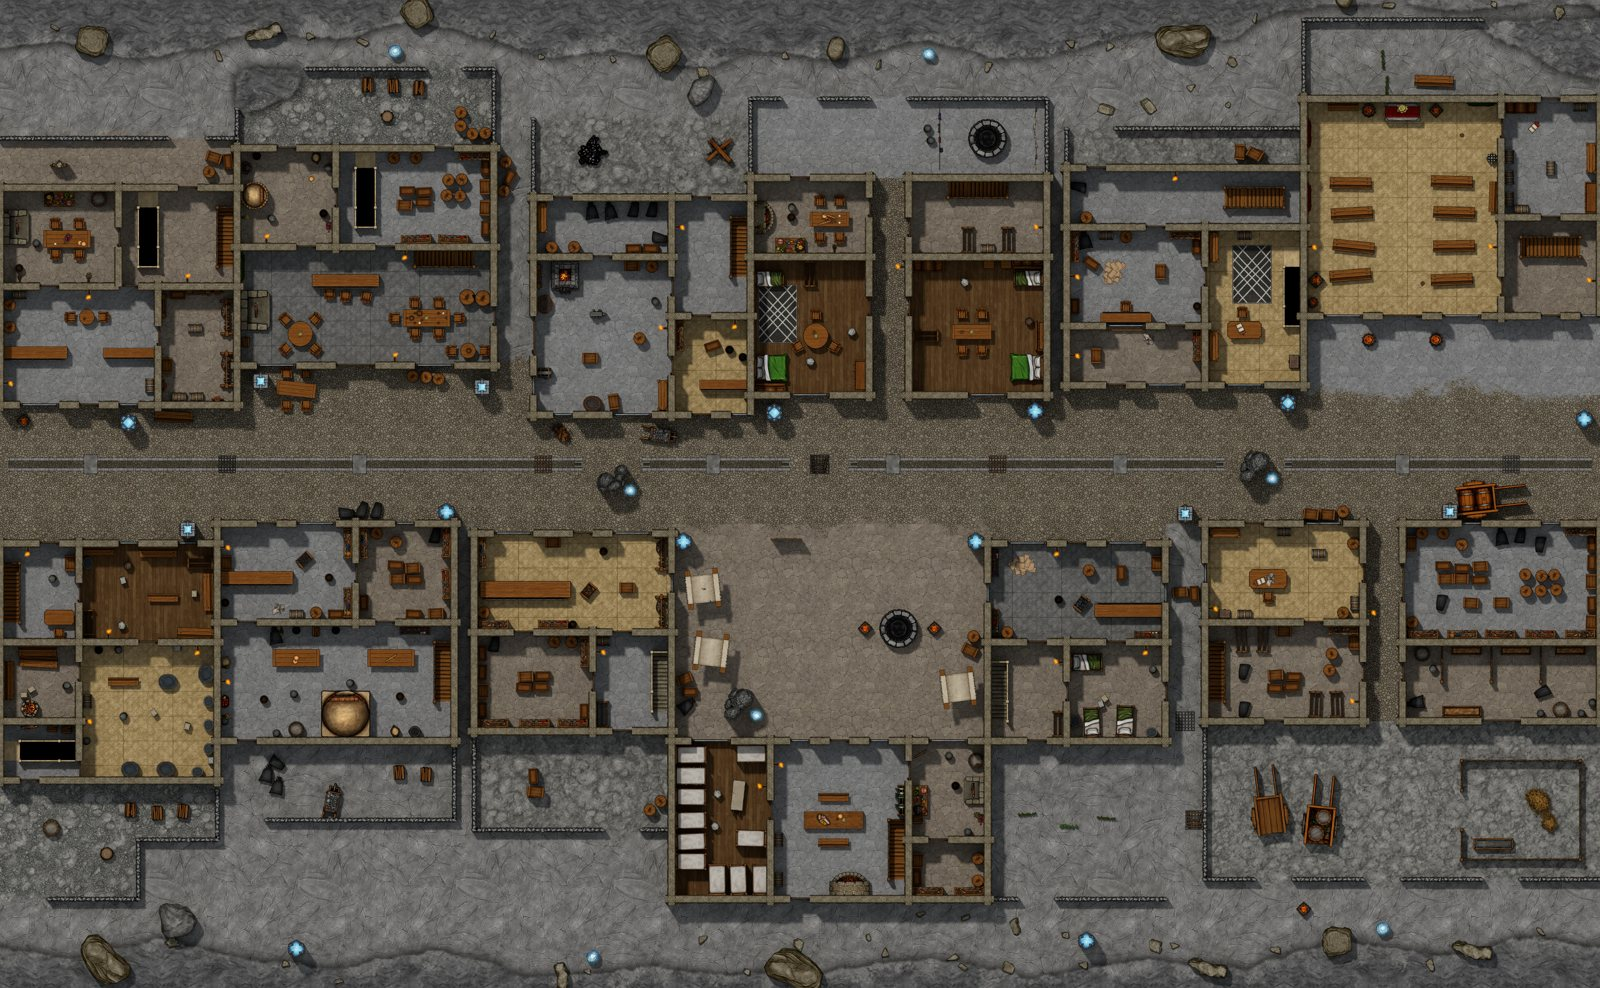
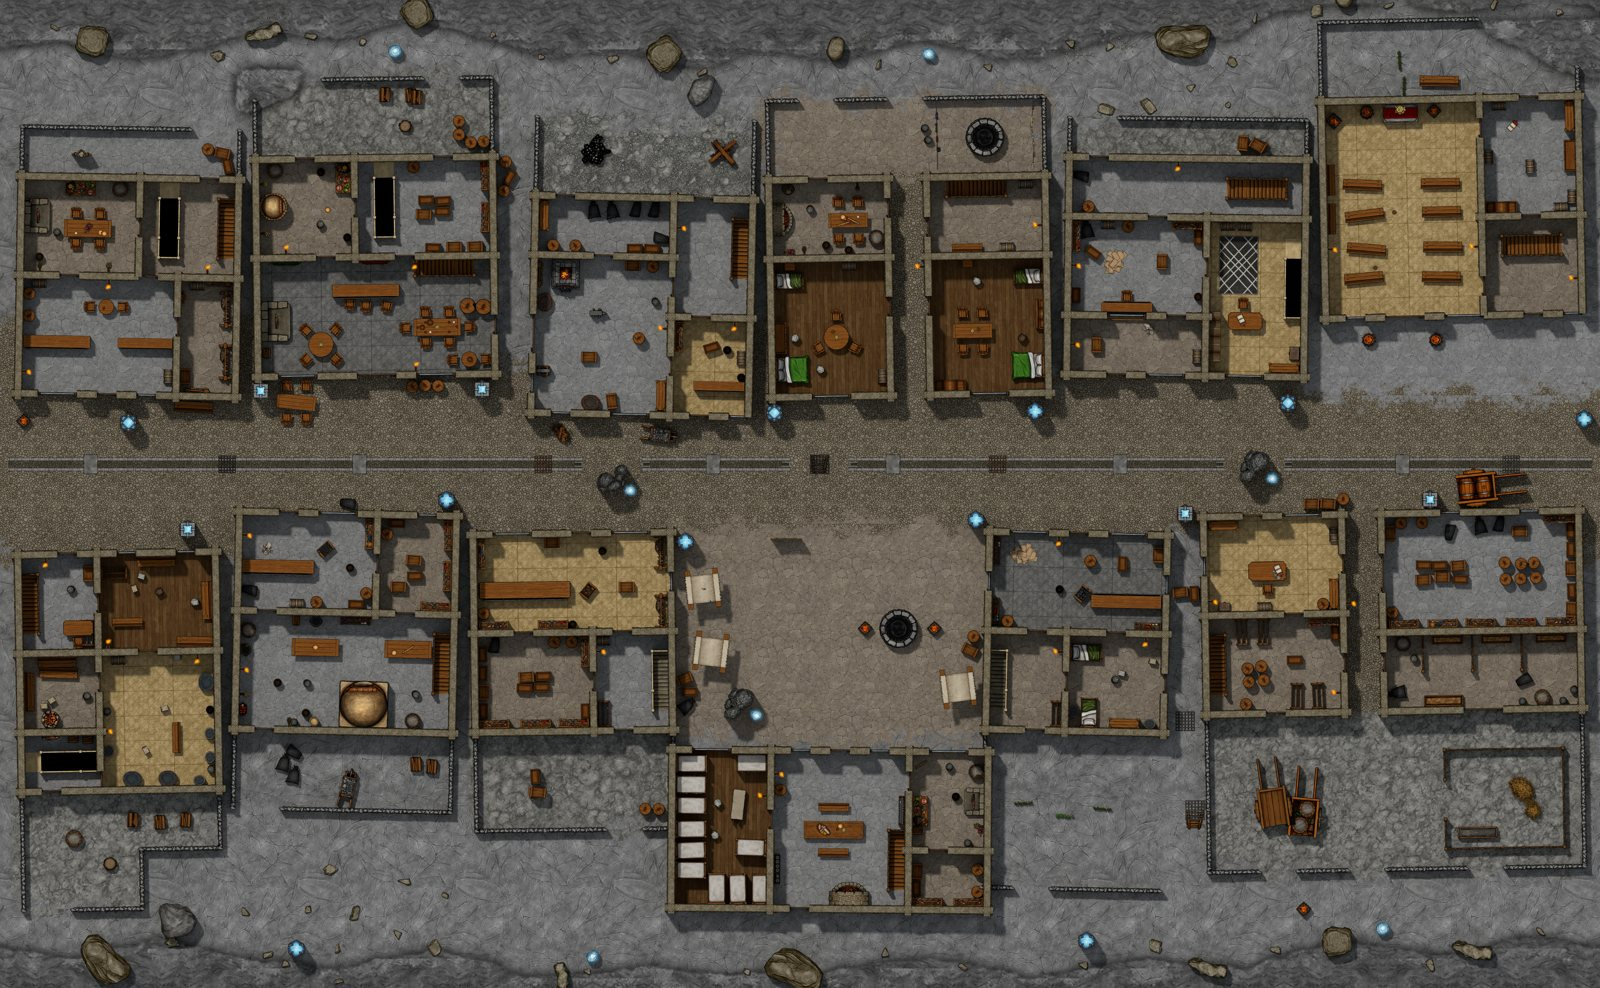
v1.2.0: turned houses on the Kragmir street, furniture clear of walls

diff --git a/README.md b/README.md
@@ -41,6 +41,7 @@ The plain versions are lit with real shadows. The (2D) versions are the same map
 ## Features
 
 - Walls, doors, windows and lights generated from the same data as the image, so they match to the pixel.
+- Every wall runs along a grid line and every door spans whole squares, so tokens walk through doorways without catching on a jamb. No furniture stands inside a wall.
 - Multi-floor buildings as a single scene, with stairs, balustrades and a pitched roof on its own Level.
 - Roofs fade out while any token is inside the building. Courtyards stay open. On the street, each house has a roof of its own.
 - Tree crowns are tiles that fade when a token walks under them. Trunks block movement, and so do the rock columns in the street.
@@ -86,7 +87,7 @@ Rooms are furnished by purpose, and every light, door and window is placed in th
 
 ## A street with real houses
 
-The Kragmir street is a whole quarter in one scene: twelve two-storey houses you can walk into, from a tavern and a smithy to a bathhouse and a small temple, around a market square. Under the street runs a sewer with ladder hatches, and one cellar has a secret way into it. The city sits inside a mountain, so the ground is bare rock and paving, and the light comes from glowing crystals and fires.
+The Kragmir street is a whole quarter in one scene: twelve two-storey houses you can walk into, from a tavern and a smithy to a bathhouse and a small temple, around a market square. Under the street runs a sewer with ladder hatches, and one cellar has a secret way into it. The city sits inside a mountain, so the ground is bare rock and paving, and the light comes from glowing crystals and fires. Each house stands turned a degree or so off the grid, its yard with it, each its own way, and narrow alleys run between them.
 
 ![The Kragmir street with the roofs off](docs/images/kragmir-street.jpg)
 

diff --git a/CHANGELOG.md b/CHANGELOG.md
@@ -2,6 +2,21 @@
 
 Notable changes, newest first. Every version is also on the [Releases page](https://github.com/Zeitcatcher/Zeitgeist-Battlemaps/releases); to update inside Foundry, press Update on the module.
 
+## 1.2.0 — turned houses
+
+Kragmir street
+
+- Each house stands turned 0.5 to 1.5 degrees off the grid, its yard with it, each its own way. One-square alleys now run between the houses and at both ends of the street.
+- Every wall runs along a grid line and every door spans whole squares, so tokens no longer catch on a door jamb or stand half inside a wall.
+- Ground textures blend into each other along their edges and at passage mouths instead of meeting on a straight line. Bare rock is grey everywhere.
+- Some rooms lost a square to make room for the alleys. The temple hall was laid out again around its aisle.
+
+All maps
+
+- No table, chair, counter or crate stands inside a wall. Fixed on the Kragmir street (the tavern terrace among others), in the lake tower (two cages and the telescope) and in Izudin's manor (a crate by the back stair).
+
+Imported scenes keep their old walls and lights: delete the Kragmir street, lake tower and Izudin's manor scenes from your world and import them again.
+
 ## 1.1.0 — Kragmir street
 
 One new scene, eight in all.
